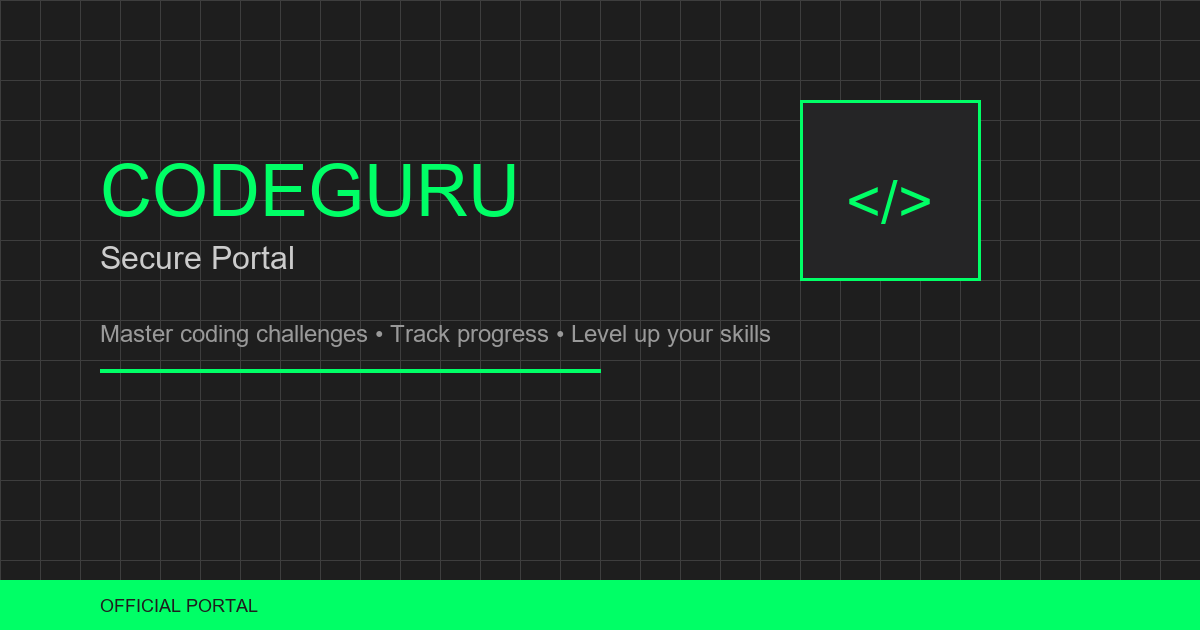
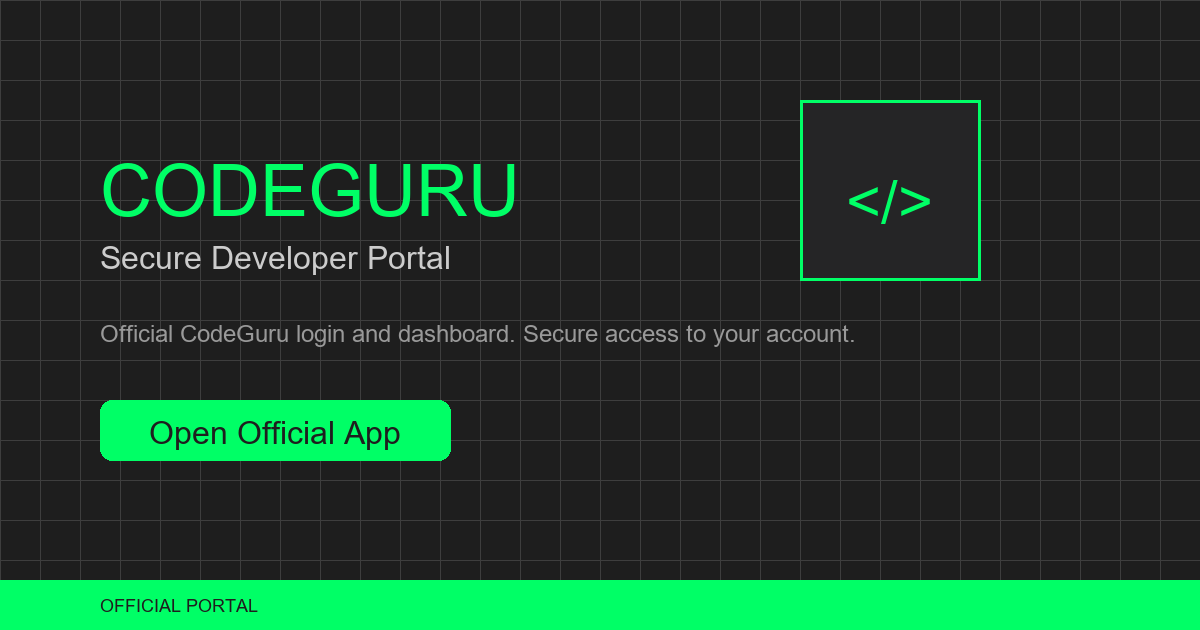
Implement professional Open Graph and Twitter Card meta tags with dynamic URLs
- Add Open Graph meta tags (og:title, og:description, og:image, og:url, og:type)
- Add Twitter Card meta tags (twitter:card, twitter:title, twitter:description, twitter:image)
- Use dynamic URLs from request.base_url (no hardcoded localhost)
- Update share.png with professional design:
  * Title: CODEGURU
  * Subtitle: Secure Developer Portal
  * Description: Official CodeGuru login and dashboard. Secure access to your account.
  * Button-style element: Open Official App
  * Code icon in styled box
- Update meta description to match requirements
- Add documentation for refreshing cached previews
- Meta tags in base.html apply to all pages automatically

Result: Professional link previews on WhatsApp, Telegram, Discord, Facebook, Twitter
with consistent branding regardless of which page URL is shared.

diff --git a/templates/base.html b/templates/base.html
@@ -6,22 +6,25 @@
     <title>{% block title %}CodeGuru{% endblock %}</title>
     <link rel="stylesheet" href="/static/styles.css">
     
+    {# Get base URL dynamically from request #}
+    {% set base_url = str(request.base_url).rstrip('/') %}
+    
     <!-- Open Graph / Facebook -->
     <meta property="og:type" content="website">
-    <meta property="og:url" content="https://codeguru-production.up.railway.app/">
+    <meta property="og:url" content="{{ base_url }}{{ request.url.path }}">
     <meta property="og:title" content="CodeGuru — Secure Portal">
-    <meta property="og:description" content="Official CodeGuru login and dashboard. Master coding challenges and level up your skills.">
-    <meta property="og:image" content="https://codeguru-production.up.railway.app/static/share.png">
+    <meta property="og:description" content="Official CodeGuru login and dashboard. Secure access to your account.">
+    <meta property="og:image" content="{{ base_url }}/static/share.png">
     
     <!-- Twitter -->
     <meta name="twitter:card" content="summary_large_image">
-    <meta name="twitter:url" content="https://codeguru-production.up.railway.app/">
+    <meta name="twitter:url" content="{{ base_url }}{{ request.url.path }}">
     <meta name="twitter:title" content="CodeGuru — Secure Portal">
-    <meta name="twitter:description" content="Official CodeGuru login and dashboard. Master coding challenges and level up your skills.">
-    <meta name="twitter:image" content="https://codeguru-production.up.railway.app/static/share.png">
+    <meta name="twitter:description" content="Official CodeGuru login and dashboard. Secure access to your account.">
+    <meta name="twitter:image" content="{{ base_url }}/static/share.png">
     
     <!-- Additional SEO -->
-    <meta name="description" content="Official CodeGuru portal. Master coding challenges, track your progress, and level up your programming skills.">
+    <meta name="description" content="Official CodeGuru login and dashboard. Secure access to your account.">
 </head>
 
 <body>

diff --git a/scripts/generate_share_image_simple.py b/scripts/generate_share_image_simple.py
@@ -64,15 +64,33 @@ def generate_share_image():
     # Title: CODEGURU
     draw.text((x_start, y_start), "CODEGURU", fill='#00ff66', font=title_font)
     
-    # Subtitle: Secure Portal
-    draw.text((x_start, y_start + 90), "Secure Portal", fill='#cccccc', font=subtitle_font)
+    # Subtitle: Secure Developer Portal
+    draw.text((x_start, y_start + 90), "Secure Developer Portal", fill='#cccccc', font=subtitle_font)
     
     # Description
-    desc_text = "Master coding challenges • Track progress • Level up your skills"
+    desc_text = "Official CodeGuru login and dashboard. Secure access to your account."
     draw.text((x_start, y_start + 170), desc_text, fill='#999999', font=desc_font)
     
-    # Accent line
-    draw.line([(x_start, y_start + 220), (x_start + 500, y_start + 220)], fill='#00ff66', width=4)
+    # Button-style element: "Open Official App"
+    button_x = x_start
+    button_y = y_start + 250
+    button_width = 350
+    button_height = 60
+    # Button background
+    draw.rounded_rectangle(
+        [(button_x, button_y), (button_x + button_width, button_y + button_height)],
+        radius=12,
+        fill='#00ff66',
+        outline=None
+    )
+    # Button text
+    button_text = "Open Official App"
+    bbox = draw.textbbox((0, 0), button_text, font=subtitle_font)
+    text_width = bbox[2] - bbox[0]
+    text_height = bbox[3] - bbox[1]
+    button_text_x = button_x + (button_width - text_width) // 2
+    button_text_y = button_y + (button_height - text_height) // 2
+    draw.text((button_text_x, button_text_y), button_text, fill='#1e1e1e', font=subtitle_font)
     
     # Code icon box (right side)
     box_x = 800

diff --git a/docs/OPEN_GRAPH.md b/docs/OPEN_GRAPH.md
@@ -1,0 +1,77 @@
+# Open Graph / Social Media Previews
+
+This app includes Open Graph and Twitter Card meta tags for professional link previews when sharing URLs on social media platforms (WhatsApp, Telegram, Discord, Facebook, Twitter, etc.).
+
+## Implementation
+
+- **Meta tags**: Added to `templates/base.html` (applies to all pages)
+- **Share image**: `static/share.png` (1200x630px - Open Graph recommended size)
+- **Dynamic URLs**: Uses `request.base_url` to automatically generate correct URLs for any domain
+
+## Meta Tags Included
+
+- `og:title`: "CodeGuru — Secure Portal"
+- `og:description`: "Official CodeGuru login and dashboard. Secure access to your account."
+- `og:image`: Points to `/static/share.png` with full absolute URL
+- `og:url`: Current page URL
+- `og:type`: "website"
+- `twitter:card`: "summary_large_image"
+- All Twitter equivalents of Open Graph tags
+
+## Regenerating Share Image
+
+If you need to regenerate the share image:
+
+```bash
+python scripts/generate_share_image_simple.py
+```
+
+This will create/update `static/share.png` with:
+- Dark background matching app theme
+- Large "CODEGURU" title in green
+- "Secure Developer Portal" subtitle
+- Description text
+- "Open Official App" button-style element
+- Code icon (</>) in styled box
+
+## Refreshing Cached Previews
+
+Social media platforms cache link previews. To refresh:
+
+### WhatsApp/Telegram
+- Use their link preview debuggers (if available)
+- Or wait 24-48 hours for cache to expire
+- Or change the image filename and update meta tags
+
+### Facebook
+- Use [Facebook Sharing Debugger](https://developers.facebook.com/tools/debug/)
+- Enter your URL and click "Scrape Again"
+
+### Twitter/X
+- Use [Twitter Card Validator](https://cards-dev.twitter.com/validator)
+- Enter your URL to preview and refresh
+
+### Discord
+- Discord caches aggressively
+- Change the image filename to force refresh
+- Or wait for cache expiration (can take days)
+
+### General Tips
+1. **Test your preview**: Use [opengraph.xyz](https://www.opengraph.xyz/) to see how your link appears
+2. **Image requirements**: 
+   - Minimum: 600x315px
+   - Recommended: 1200x630px
+   - Max file size: 8MB (but keep it under 1MB for fast loading)
+3. **HTTPS required**: All images must be served over HTTPS
+4. **Absolute URLs**: Always use full absolute URLs (https://...) in meta tags
+
+## Static Files
+
+Static files are served via FastAPI's `StaticFiles` mount in `app/main.py`:
+
+```python
+app.mount("/static", StaticFiles(directory=str(static_dir)), name="static")
+```
+
+This ensures `/static/share.png` is accessible at the correct URL.
+
